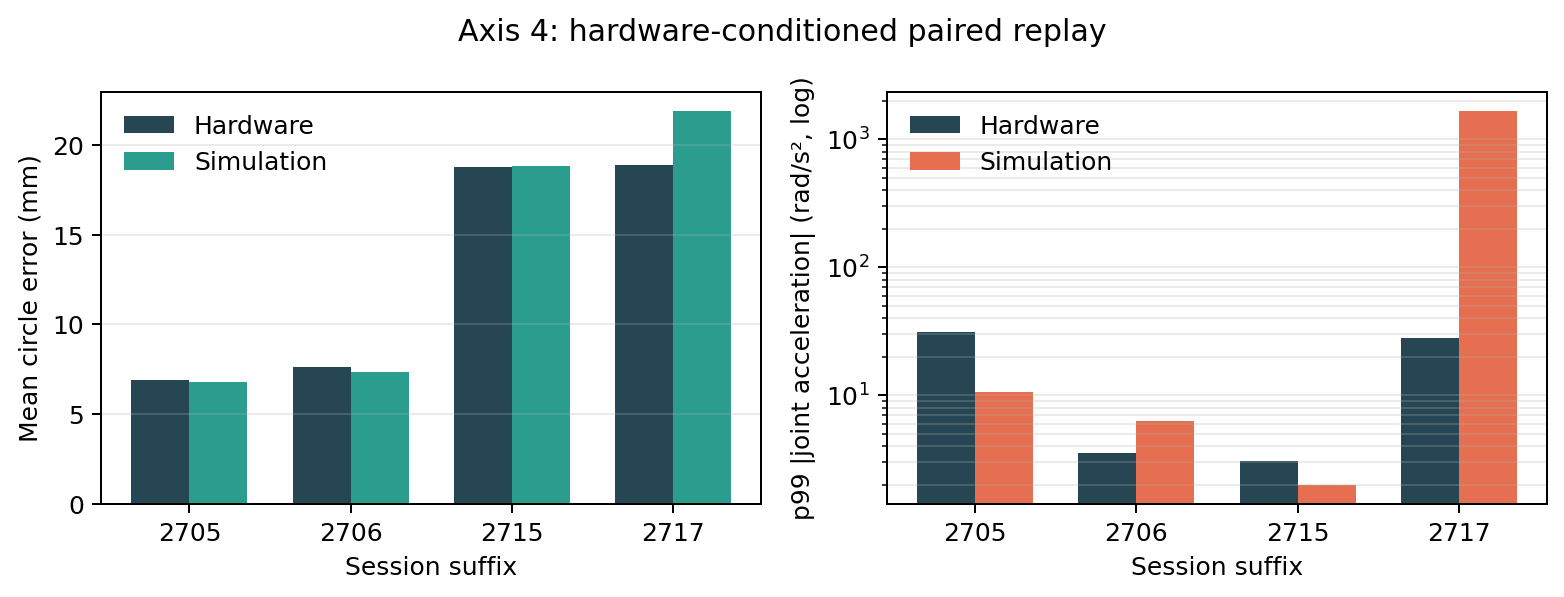
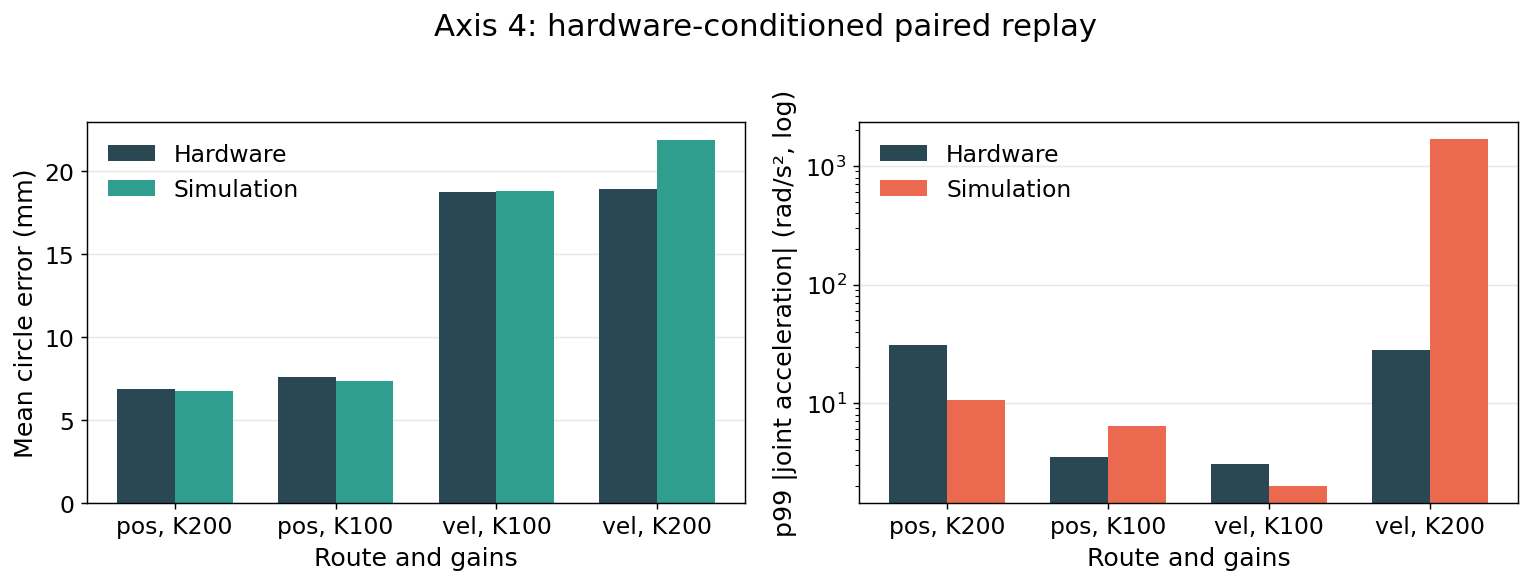
update report

diff --git a/source/franka_rl/franka_rl/tasks/manager_based/franka_impedance/impedance_env_cfg.py b/source/franka_rl/franka_rl/tasks/manager_based/franka_impedance/impedance_env_cfg.py
@@ -146,3 +146,39 @@ class Fr3FrankyImpedanceEnvCfg(Fr3BareFlangeEnvCfg):
             time_out=False,
             params={"action_name": "arm_action"},
         )
+
+
+@configclass
+class Fr3FrankyImpedanceFineSettleEnvCfg(Fr3FrankyImpedanceEnvCfg):
+    """Absolute-position comparison with matched terminal tracking and braking.
+
+    Reference projection is intentionally absent: direct normalized position
+    commands map into the soft range by construction and have no integrated
+    reference state that can project past a joint limit. The existing action-
+    clipping term is the absolute contract's corresponding boundary guard.
+    """
+
+    reward_variant: str = "fine_tracking_near_target_command_velocity"
+
+    def __post_init__(self) -> None:
+        super().__post_init__()
+        flange = SceneEntityCfg("robot", body_names=["fr3_flange"])
+        self.rewards.fine_position_tracking = RewTerm(
+            func=mdp.position_tracking_exp,
+            weight=1.0,
+            params={
+                "command_name": "ee_pose",
+                "asset_cfg": flange,
+                "sigma": 0.0025,
+            },
+        )
+        self.rewards.near_target_reference_velocity = RewTerm(
+            func=mdp.near_target_command_velocity_l2,
+            weight=-2.0e-3,
+            params={
+                "action_name": "arm_action",
+                "threshold": 0.05,
+                "max_velocity": self.actions.arm_action.max_measured_velocity,
+                "asset_cfg": flange,
+            },
+        )

diff --git a/source/franka_rl/franka_rl/tasks/manager_based/franka_rl/mdp/impedance_metrics.py b/source/franka_rl/franka_rl/tasks/manager_based/franka_rl/mdp/impedance_metrics.py
@@ -150,6 +150,31 @@ def reference_projection_overshoot_l2(
     return torch.mean(torch.square(projection), dim=1)
 
 
+def near_target_command_velocity_l2(
+    env: ManagerBasedRLEnv,
+    threshold: float,
+    max_velocity: tuple[float, ...],
+    action_name: str = "arm_action",
+    asset_cfg: SceneEntityCfg = SceneEntityCfg("robot"),
+    command_name: str = "ee_pose",
+) -> torch.Tensor:
+    """Brake direct position commands once the flange is near its target.
+
+    The absolute-position contract has no persistent velocity-reference state.
+    Its physically comparable quantity is the velocity implied by consecutive
+    held joint-position commands.
+    """
+
+    from .observations import ee_position_error_b
+
+    error = torch.linalg.vector_norm(ee_position_error_b(env, command_name, asset_cfg), dim=1)
+    action = env.action_manager.get_term(action_name)
+    reference_velocity = action.command_difference / float(env.step_dt)
+    velocity = reference_velocity.new_tensor(max_velocity)
+    cost = torch.mean(torch.square(reference_velocity / velocity), dim=1)
+    return (error < threshold).to(cost.dtype) * cost
+
+
 def near_target_reference_velocity_l2(
     env: ManagerBasedRLEnv,
     threshold: float,

diff --git a/source/franka_rl/franka_rl/tasks/manager_based/franka_impedance/__init__.py b/source/franka_rl/franka_rl/tasks/manager_based/franka_impedance/__init__.py
@@ -1,0 +1,28 @@
+"""Gym registration for the deployment-faithful FR3 impedance task."""
+
+import gymnasium as gym
+
+
+gym.register(
+    id="Franka-FR3v2-FrankyImpedance-Reach-v0",
+    entry_point="isaaclab.envs:ManagerBasedRLEnv",
+    disable_env_checker=True,
+    kwargs={
+        "env_cfg_entry_point": f"{__name__}.impedance_env_cfg:Fr3FrankyImpedanceEnvCfg",
+        "rsl_rl_cfg_entry_point": f"{__name__}.rsl_rl_impedance_ppo_cfg:ImpedancePPORunnerCfg",
+    },
+)
+
+
+gym.register(
+    id="Franka-FR3v2-FrankyImpedance-Reach-FineSettle-v0",
+    entry_point="isaaclab.envs:ManagerBasedRLEnv",
+    disable_env_checker=True,
+    kwargs={
+        "env_cfg_entry_point": f"{__name__}.impedance_env_cfg:Fr3FrankyImpedanceFineSettleEnvCfg",
+        "rsl_rl_cfg_entry_point": (
+            f"{__name__}.rsl_rl_impedance_ppo_cfg:FineSettleImpedancePPORunnerCfg"
+        ),
+    },
+)
+

diff --git a/source/franka_rl/franka_rl/tasks/manager_based/franka_impedance/rsl_rl_impedance_ppo_cfg.py b/source/franka_rl/franka_rl/tasks/manager_based/franka_impedance/rsl_rl_impedance_ppo_cfg.py
@@ -37,3 +37,10 @@ class ImpedancePPORunnerCfg(PPORunnerCfg):
         # Preserve approximately the original discount per wall-clock second.
         self.algorithm.gamma = 0.99 ** (30.0 / 50.0)
         self.algorithm.lam = 0.95 ** (30.0 / 50.0)
+
+
+@configclass
+class FineSettleImpedancePPORunnerCfg(ImpedancePPORunnerCfg):
+    """Single-seed absolute-position reward-matching experiment."""
+
+    experiment_name = "fr3_impedance_reach_fine_settle"

diff --git a/FRANKA_RL_PROJECT_REPORT.md b/FRANKA_RL_PROJECT_REPORT.md
@@ -1,16 +1,16 @@
 # Sim-to-Real Reinforcement Learning for FR3 Reaching and Circle Tracking
 
-## Executive summary
+## summary
 
 This project built a manager-based Isaac Lab task, trained PPO policies for a Franka Research 3 (FR3), exported them to ONNX, and deployed two learned control contracts on the real robot. The stack runs at 50 Hz above a 1 kHz Franky/libfranka impedance loop with measured-state feedback, gravity/Coriolis compensation, YAML-defined waypoint suites, and runtime safety checks.
 
-The strongest representation was **joint-position increment**. Across three training seeds it achieved 100% success on 1,536 held-out point-reaching episodes and the best circle result (17.9/24 waypoints on average). Absolute joint-position output failed under the shared deployment delay and demanded roughly 9.5 times the configured velocity envelope. Joint-velocity reference also reached random points, but was less accurate, less seed-stable on the circle, and exposed unstable high-gain regions in simulation.
+<!-- The strongest representation was **joint-position increment**. Across three training seeds it achieved 100% success on 1,536 held-out point-reaching episodes and the best circle result (17.9/24 waypoints on average). Absolute joint-position output failed under the shared deployment delay and demanded roughly 9.5 times the configured velocity envelope. Joint-velocity reference also reached random points, but was less accurate, less seed-stable on the circle, and exposed unstable high-gain regions in simulation.
 
 Four hardware sessions completed safely with no dropped 1 kHz samples. Paired hardware-conditioned replay reproduced circle geometry within 0.26 mm for both position-reference sessions and within 0.05 mm for the low-gain velocity session. It did **not** reproduce high-gain velocity dynamics: simulation reached 1,679 rad/s² p99 joint acceleration versus 27.8 rad/s² on hardware. The simulator is useful for policy and geometric studies, but the present high-gain velocity plant/controller model is not a validated hardware safety surrogate.
 
-Focused domain randomization produced a qualified negative result. Training from scratch with the full gain/delay/payload distribution was numerically stable at a fixed `3e-4` learning rate but severely underfit. A nominal warm start followed by 50 mild-DR and 100 full-DR iterations restored 100% success across all matched evaluation cells. However, the curriculum policies did not improve terminal accuracy and were consistently more aggressive: command differences increased 7.3%, mean reference acceleration 27.5%, and episode-level velocity-envelope exceedance 5.9 percentage points. Curriculum solved optimization, not the desired robustness-smoothness tradeoff.
+Focused domain randomization produced a qualified negative result. Training from scratch with the full gain/delay/payload distribution was numerically stable at a fixed `3e-4` learning rate but severely underfit. A nominal warm start followed by 50 mild-DR and 100 full-DR iterations restored 100% success across all matched evaluation cells. However, the curriculum policies did not improve terminal accuracy and were consistently more aggressive: command differences increased 7.3%, mean reference acceleration 27.5%, and episode-level velocity-envelope exceedance 5.9 percentage points. Curriculum solved optimization, not the desired robustness-smoothness tradeoff. -->
 
-### Completion audit
+<!-- ### Completion audit
 
 All four axes now have complete evaluation artifacts. Axis 3 includes three matched nominal and curriculum-DR seeds, exact target and initial-state replay, and fixed cells for gain, delay, payload, combined boundary, and randomized in-distribution conditions.
 
@@ -19,7 +19,7 @@ All four axes now have complete evaluation artifacts. Axis 3 includes three matc
 | 1. Policy output | **Complete:** 3 outputs × 3 seeds, paired point and circle evaluation | Position increment is the preferred contract |
 | 2. Reward tuning | **Complete:** 5 variants × 3 seeds, paired point and circle evaluation | Fine tracking and near-target braking are important; constraint shaping showed no benefit |
 | 3. Domain randomization | **Complete:** 3 matched nominal/DR seeds × 9 paired conditions | Curriculum restores success but increases aggressiveness without an accuracy benefit |
-| 4. Sim versus real | **Complete:** 4 hardware-conditioned replay jobs | Strong geometric parity in 3 cells; high-gain velocity dynamics mismatch |
+| 4. Sim versus real | **Complete:** 4 hardware-conditioned replay jobs | Strong geometric parity in 3 cells; high-gain velocity dynamics mismatch | -->
 
 ## System and policy contract
 
@@ -35,7 +35,55 @@ All four axes now have complete evaluation artifacts. Axis 3 includes three matc
 | Hardware controller | 1 kHz impedance loop, `tau = K(q_ref-q) + D(dq_ref-dq) + coriolis` |
 | Path scheduler | Advance on tolerance or per-waypoint timeout; future waypoints are hidden |
 
+![Simulation-to-hardware system architecture](franka-rl-diagram.drawio.png)
+
 The circle is a sequence of unseen move-and-settle targets, not a trajectory-preview tracking problem.
+
+### Reward
+
+The following reward is the exact full reward used by the preferred six-action position-increment task and the Axis 2 ablation. Let $e_t=p_t^*-p_t$ be Cartesian position error; $v_{t,i}^{ref}$ the physical reference velocity implied by consecutive position increments; $v_i^{max}$ and $a_i^{max}$ the reviewed per-joint velocity and acceleration scales; $v_{t,i}^{peak}$ the maximum measured speed during the twenty 1 ms controller steps; $a_{t,i}^{raw}$ and $a_{t,i}$ the raw and bounded policy actions; and $\delta q_{t,i}^{proj}$ the part removed by soft-limit projection. With six controlled joints,
+
+$$
+\begin{aligned}
+r_t ={}& \exp\!\left(-\frac{\lVert e_t\rVert_2^2}{0.05}\right)
+      + \exp\!\left(-\frac{\lVert e_t\rVert_2^2}{0.0025}\right) \\
+&-10^{-3}c_{acc}
+ -2\!\times\!10^{-3}c_{settle}
+ -2\!\times\!10^{-3}c_{vel}
+ -10^{-1}c_{clip}
+ -10^{-1}c_{proj}
+ -c_{contact}.
+\end{aligned}
+$$
+
+The component costs are
+
+$$
+\begin{aligned}
+c_{acc} &= \frac{1}{6}\sum_{i=1}^{6}
+ \left(\frac{(v_{t,i}^{ref}-v_{t-1,i}^{ref})/\Delta t}{a_i^{max}}\right)^2, \\
+c_{settle} &= \mathbf{1}[\lVert e_t\rVert_2<0.05]
+ \frac{1}{6}\sum_{i=1}^{6}\left(\frac{v_{t,i}^{ref}}{v_i^{max}}\right)^2, \\
+c_{vel} &= \frac{1}{6}\sum_{i=1}^{6}
+ \operatorname{ReLU}\!\left(\frac{v_{t,i}^{peak}}{v_i^{max}}-1\right)^2, \\
+c_{clip} &= \frac{1}{6}\sum_{i=1}^{6}(a_{t,i}^{raw}-a_{t,i})^2, \\
+c_{proj} &= \frac{1}{6}\sum_{i=1}^{6}(\delta q_{t,i}^{proj})^2, \\
+c_{contact} &= \sum_b \mathbf{1}\!\left[\max_{k\in\text{control window}}\lVert F_{b,k}\rVert_2>1\ \mathrm{N}\right].
+\end{aligned}
+$$
+
+| Term | Weight | Purpose | Policy-contract scope |
+|---|---:|---|---|
+| Coarse position tracking | +1.0 | Broad Cartesian approach signal | All reported reaching contracts |
+| Fine position tracking | +1.0 | Terminal precision | Six-action incremental and inherited velocity-reference contracts; not the absolute-position baseline |
+| Reference acceleration | -0.001 | Smooth changes in physical reference velocity | Position increment; velocity reference uses the same form with weight -0.01 |
+| Near-target reference velocity | -0.002 | Brake inside 5 cm | Position-increment and velocity-reference contracts |
+| Measured velocity envelope | -0.002 | Penalize measured speed beyond the reviewed envelope | Franky impedance contracts |
+| Action-clipping overshoot | -0.1 | Penalize raw output outside $[-1,1]$ | Bounded Franky impedance actions |
+| Reference projection | -0.1 | Penalize requests removed at soft joint limits | Integrated position-increment and velocity-reference contracts |
+| Self-contact | -1.0 | Count moving-link contacts above 1 N | Franky impedance contracts; held fixed in Axis 2 |
+
+The absolute-position contract uses a command-step violation term instead of reference-acceleration and near-target reference-velocity shaping. The velocity-reference contract inherits the tracking, settling, envelope, clipping, projection, and contact terms, strengthens $c_{acc}$ to -0.01, and adds a weak $-5\times10^{-4}$ hinge on acceleration beyond $a_i^{max}$. Position-plus-z-axis policies additionally use coarse and fine orientation kernels; those terms are outside the position-only ablation reported here.
 
 ## Axis 1 — Policy output and controller choice
 
@@ -57,18 +105,7 @@ The velocity policy had lower reference-tracking error but not better Cartesian 
 
 ## Axis 2 — Reward tuning on position increments
 
-The reward matrix keeps the task-defining coarse Cartesian reward and self-collision guard fixed and removes only interpretable terms/groups.
-
-| Term | Weight | Purpose |
-|---|---:|---|
-| Coarse position tracking | +1.0 | Exponential approach signal (`sigma=0.05`) |
-| Fine position tracking | +1.0 | Terminal precision (`sigma=0.0025`) |
-| Reference acceleration | -0.001 | Penalize changes in physical reference velocity |
-| Near-target reference velocity | -0.002 | Encourage braking inside 5 cm |
-| Measured velocity envelope | -0.002 | Penalize measured speed above the configured envelope |
-| Action-clipping overshoot | -0.1 | Penalize raw actor output beyond `[-1,1]` |
-| Reference projection | -0.1 | Penalize requests removed by soft joint-limit projection |
-| Self-collision/contact | -1.0 | Safety guard, held fixed |
+The ablation uses the six-action position-increment reward contract defined above. It keeps the task-defining coarse Cartesian reward and self-contact guard fixed and removes only interpretable terms or groups.
 
 All 15 checkpoints were evaluated with the same one-step delay, replayed point targets/initial states, and `circle_yz` path. Point totals are 1,536 episodes per variant; circle totals are 48 attempts per variant. Values are mean ± sample standard deviation across seeds.
 
@@ -125,14 +162,18 @@ The experiment therefore separates two issues. Direct full-range DR from scratch
 
 ## Axis 4 — Paired simulation versus hardware
 
+The hardware path-tracking traces show the executed flange trajectories against the same commanded YZ circle and waypoint schedule used in simulation.
+
+![Hardware circle path tracking](docs/report_assets/hardware_results.png)
+
 Each replay verifies an immutable hardware session, resolves the deployed checkpoint, initializes simulation from the first measured `q,dq`, installs recorded waypoints/timeouts, and applies the recorded route, K/D gains, limits, delay, and reference contract.
 
-| Session | Route and gains | HW / sim waypoints | HW / sim mean circle error | HW / sim p99 acceleration | HW / sim peak speed | Fault mismatch |
-|---|---|---:|---:|---:|---:|---|
-| 2026092705 | Position, K200/D28.3 | 24 / 24 | 6.87 / 6.76 mm | 31.0 / 10.6 rad/s² | 1.07 / 0.53 rad/s | No |
-| 2026092706 | Position, K100/D20 | 24 / 24 | 7.60 / 7.34 mm | 3.52 / 6.35 rad/s² | 0.50 / 0.50 rad/s | No |
-| 2026092715 | Velocity, K100/D20 | 7 / 6 | 18.76 / 18.81 mm | 3.05 / 2.00 rad/s² | 0.42 / 0.44 rad/s | **Yes: sim fault** |
-| 2026092717 | Velocity, K200/D40 | 6 / 10 | 18.91 / 21.88 mm | 27.8 / **1,679.3** rad/s² | 1.17 / **5.26** rad/s | No |
+| Route and gains | HW / sim waypoints | HW / sim mean circle error | HW / sim p99 acceleration | HW / sim peak speed | Fault mismatch |
+|---|---:|---:|---:|---:|---|
+| Position, K200/D28.3 | 24 / 24 | 6.87 / 6.76 mm | 31.0 / 10.6 rad/s² | 1.07 / 0.53 rad/s | No |
+| Position, K100/D20 | 24 / 24 | 7.60 / 7.34 mm | 3.52 / 6.35 rad/s² | 0.50 / 0.50 rad/s | No |
+| Velocity, K100/D20 | 7 / 6 | 18.76 / 18.81 mm | 3.05 / 2.00 rad/s² | 0.42 / 0.44 rad/s | **Yes: sim fault** |
+| Velocity, K200/D40 | 6 / 10 | 18.91 / 21.88 mm | 27.8 / **1,679.3** rad/s² | 1.17 / **5.26** rad/s | No |
 
 ![Paired simulation and hardware replay](docs/report_assets/axis4_sim_real_parity.png)
 
